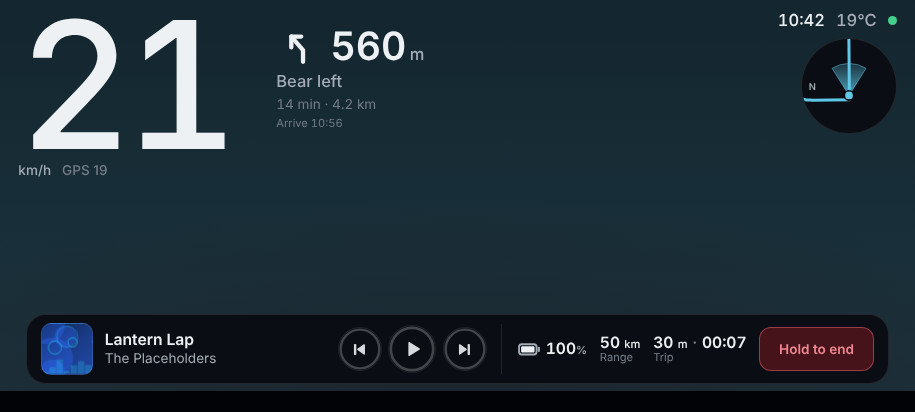
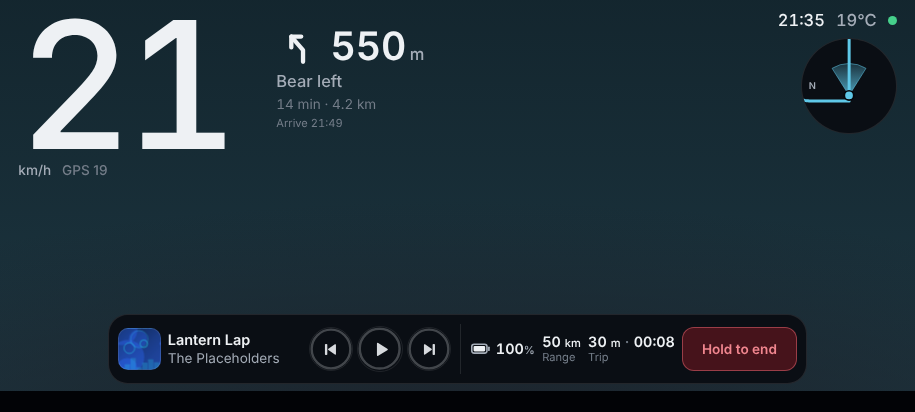
docs: document fullscreen, the centred dock and amber warnings, refresh screenshots
Adds Amendment 6 to the brief mirror, a reinstall note and system gesture limits
to PWA.md, the colour rules and dock layout to the design system, and a trip
summary screenshot.

diff --git a/docs/DESIGN_SYSTEM.md b/docs/DESIGN_SYSTEM.md
@@ -1,6 +1,6 @@
 # Design system
 
-Waylit should feel like a quiet cockpit at night: near black, flat translucent panels with hairline borders, and one soft cyan accent. The 3D scene fills the whole screen and the HUD floats on it. Everything else stays quiet so the 3D view leads.
+Waylit should feel like a quiet cockpit at night: near black, flat translucent panels with hairline borders, one soft cyan accent, and amber and red only when something needs attention. The 3D scene fills the whole screen and the HUD floats on it. Everything else stays quiet so the 3D view leads.
 
 The tokens live in [`packages/ui-tokens`](../packages/ui-tokens). `src/tokens.ts` is the source of truth and works on any platform. `src/tokens.css` exposes the same values as CSS custom properties prefixed `--wl-`, and a test fails if the two files drift apart. The web app maps the variables into Tailwind in `apps/web/src/app/globals.css`.
 
@@ -8,8 +8,8 @@ The tokens live in [`packages/ui-tokens`](../packages/ui-tokens). `src/tokens.ts
 
 1. **The world leads, the HUD supports.** The scene is the whole screen. The HUD is bare text and a few flat panels. If something competes with the road, make it smaller or quieter.
 2. **Glanceable first.** The vehicle speed is the biggest thing on the screen, set as a bare number with tight letter spacing. Distance to the next turn is next. Secondary text is smaller and in muted grey.
-3. **One accent.** Soft cyan (`cyan`, `#5fc8e8`) is the only accent: the route on the minimap, progress, active states and the heading. It is never used as decoration.
-4. **Colour has a job.** Amber is only for caution: offline, low battery and the safety notice. A lost scooter link is not amber, it is a quiet grey note with a small cyan icon. Red is only for End trip, as a dark red fill, a muted red outline and soft red text. Green is only the small online dot.
+3. **One accent.** Soft cyan (`cyan`, `#5fc8e8`) is the only non-warning accent: the route on the minimap, progress, active states and the heading. It is never used as decoration.
+4. **Colour has a job.** Amber and red are allowed for warnings and errors (Amendment 6). Amber (`caution`, a muted amber that suits the dark theme) is for warnings: the telemetry lost note, the GPS fallback label, offline, low battery and safety notices. Red is for errors and for End trip, as a dark red fill, a muted red outline and soft red text. Green is only the small online dot. Never use amber or red as decoration.
 5. **No glow, no heavy blur.** HUD panels are flat, about 85 percent opaque, with a hairline border and no backdrop blur, so they stay cheap on a mid-range phone. Glow tokens are kept for the 3D scene's route and heading marker, and for the keyboard focus ring.
 6. **Large targets.** Anything touchable is at least 44 by 44 pixels (`touch.min`).
 7. **Respect reduced motion.** Ambient animation stops under `prefers-reduced-motion`. Motion that answers a rider's action may stay but should be short, and feedback must never depend on it.
@@ -28,10 +28,10 @@ The tokens live in [`packages/ui-tokens`](../packages/ui-tokens). `src/tokens.ts
 | `text` | `--wl-color-text` | `text` | `#eef1f4` | Primary text and the speed number |
 | `textSecondary` | `--wl-color-text-secondary` | `text-secondary` | `#a4acb7` | Labels, street instruction |
 | `textMuted` | `--wl-color-text-muted` | `text-muted` | `#747d89` | Time and distance left, hints |
-| `caution` | `--wl-color-caution` | `caution` | `#e6b04f` | Offline, low battery, safety notices |
-| `danger` | `--wl-color-danger` | `danger` | `#f0868f` | End trip text only |
-| `dangerBorder` | `--wl-color-danger-border` | `danger-border` | `rgba(200, 84, 96, 0.65)` | End trip outline |
-| `dangerFill` | `--wl-color-danger-fill` | `danger-fill` | `rgba(96, 22, 30, 0.7)` | End trip fill |
+| `caution` | `--wl-color-caution` | `caution` | `#e6b04f` | The warning amber: telemetry lost note, GPS fallback label, offline, low battery, safety notices |
+| `danger` | `--wl-color-danger` | `danger` | `#f0868f` | Errors, and End trip text |
+| `dangerBorder` | `--wl-color-danger-border` | `danger-border` | `rgba(200, 84, 96, 0.65)` | Error and End trip outline |
+| `dangerFill` | `--wl-color-danger-fill` | `danger-fill` | `rgba(96, 22, 30, 0.7)` | Error and End trip fill |
 | `ok` | `--wl-color-ok` | `ok` | `#46d08b` | The online dot |
 | `glass` | `--wl-color-glass` | `glass` | `rgba(10, 13, 18, 0.85)` | Flat panel fill, about 85 percent opaque |
 | `glassNight` | `--wl-color-glass-night` | `glass-night` | `rgba(10, 13, 18, 0.78)` | Panel fill after dark, a little more see-through |
@@ -60,7 +60,7 @@ Waylit uses the platform's system UI font (`font.sans`). It is legible at small 
 | `speed` | `text-speed` | `min(43dvh, 21vw)` | Vehicle speed on the riding screen |
 | `hudTurn` | `text-hud-turn` | `clamp(1.5rem, 9.5dvh, 3.5rem)` | Distance to the next turn |
 | `hudLg` | `text-hud-lg` | `clamp(0.875rem, 4dvh, 1.3rem)` | Street instruction, clock, temperature |
-| `hudDock` | `text-hud-dock` | `clamp(0.8rem, min(3.8dvh, 2.1vw), 1.3rem)` | Values in the dock, which is the tightest row |
+| `hudDock` | `text-hud-dock` | `clamp(0.8rem, min(3.5dvh, 1.9vw), 1.2rem)` | Values in the dock, which is the tightest row |
 | `hudMd` | `text-hud-md` | `clamp(0.75rem, 3.3dvh, 1.05rem)` | Time and distance left, labels, speed unit |
 | `hudSm` | `text-hud-sm` | `clamp(0.6875rem, 2.7dvh, 0.875rem)` | Captions, arrival time, credits |
 
@@ -115,32 +115,33 @@ The riding screen is landscape first. Phones in landscape can be as short as 360
 
 ## Riding screen layout
 
-Built in `apps/web/src/app/ride/page.tsx` and `apps/web/src/hud/`. The scene fills the whole screen and the HUD floats on it. There are no solid bars. The HUD is a grid of three rows: the top area (which grows), the dock, and the credits strip. It was checked at 915 by 412 (Samsung Galaxy A35 in landscape, in CSS pixels), 740 by 360, 667 by 375, 800 by 360 and 1280 by 720, in the start, riding, telemetry lost and summary states.
+Built in `apps/web/src/app/ride/page.tsx` and `apps/web/src/hud/`. The scene fills the whole screen and the HUD floats on it. There are no solid bars. The HUD is a grid of three rows: the top area (which grows), the dock, and the credits strip. It was checked at 915 by 412 (Samsung Galaxy A35 in landscape, in CSS pixels), 915 by 422 (the A35's 2340 by 1080 pixels at its device pixel ratio, which is the fullscreen height), 740 by 360, 667 by 375, 800 by 360 and 1280 by 720, in the start, riding, telemetry lost and summary states.
 
 | Area | Content |
 |---|---|
 | Top left, no card | The vehicle speed as a bare, very large number (the biggest element, digits about 30 percent of the screen height). Under it, small: `km/h` and `GPS 17`, the GPS speed shown separately. Beside it: the next turn arrow, the distance to the turn in large type, the street instruction, then a smaller grey `9 min · 2.4 km` (time and distance left) and a small `Arrive 14:35` |
 | Top right | Local time and temperature (mock weather) as plain text, a small connectivity dot (green online, amber offline), and a round plain SVG minimap about 84 px across at 800 wide: route line, position dot and a heading cone. No tiles and no map data |
 | Centre | Clear for the 3D scene. A dark gradient until task 8. The start prompt appears low in the clear middle before a trip, and the dev controls (development and `?dev=1` only) sit below it. They are always one row of 44 px buttons, so nothing overlaps at any landscape size, and the Time button swaps that row for the time override page (Back, Live, Dawn, Noon, Sunset, Night, a time slider and a date field) |
-| Dock | One joined glass dock, 20 px corners, inset from the screen edges, with a hairline divider between two halves. Left: artwork tile, title and artist, previous, play or pause, next, and a thin progress line along the bottom of the half. Right: battery icon and percent, range, trip distance and time (`3.2 km · 12:40`), and End trip at the far right |
+| Dock | One joined glass dock, 20 px corners, sized to its content and centred at the bottom with margin on both sides (never wider than 80 percent of the screen, or 42rem on small phones where the content needs it), with a hairline divider between two halves. Left: artwork tile, title and artist, previous, play or pause, next, and a thin progress line along the bottom of the half. Right: battery icon and percent, range, trip distance and time (`3.2 km · 12:40`), and End trip at the far right |
 | Credits strip | The reserved credits row below the dock: a darker band that nothing overlaps, sized for real attributions later (Google, Cesium ion and OpenStreetMap contributors). Empty in production. A faint label shows only in development or with `?dev=1` |
 
 Rules for this screen:
 
+- **Fullscreen, with our own top strip.** The installed app runs fullscreen (see [PWA.md](PWA.md)), so the phone's status bar and navigation bar are hidden and the screen draws its own: time, temperature and the online dot top right, speed and turn top left. Everything keeps at least the safe area inset, with a small minimum margin for rounded corners, so nothing sits under the camera cutout.
 - **Nothing in the bottom corners outside the dock.** No floating vertical buttons, no distance scale and no zoom controls.
-- **Large targets.** Media buttons are round and at least 44 pixels across, and End trip is at least 44 pixels tall. End trip is the only red.
+- **Large targets.** Media buttons are round and at least 44 pixels across, and End trip is at least 44 pixels tall. End trip is the one red control, and red is otherwise only for errors.
 - **Speed guard.** Above 8 km/h the media controls and End trip need a hold (0.6 s, and 0.9 s for End trip). The guard switches off below 5 km/h.
 - **Hold feedback that does not need animation.** While the guard is on, each media button shows a ring track that says a hold is needed. While a button is held the ring fills over the hold time, the button takes a cyan edge and a stronger fill, and the artist line says "Keep holding". End trip says "Hold to end", grows a red fill while held, and says "Keep holding". With reduced motion the ring and fill skip the growth and show complete as soon as the hold starts, so the filled state and the caption are still there.
-- **Missing data shows dashes**, never zero. A quiet grey note with a small cyan icon under the speed says when GPS is standing in for the scooter, and the GPS speed turns cyan. Neither uses amber.
+- **Missing data shows dashes**, never zero. An amber note with a small icon under the speed says when GPS is standing in for the scooter, and the GPS speed label turns amber.
 - **Plain text, no cards.** The speed, turn, time and temperature have no panel behind them. Only the dock, the minimap and the dev controls are panels.
 - **Minimap.** Plain drawn route only. While riding it follows the rider with the heading up, shows a clear heading cone (a 34 unit wedge opening 32 degrees either side, a gradient fill from 80 to 20 percent cyan with an outline), and a small N on the rim. Before and after a trip it shows the whole route inside the circle, north up.
 - **Contrast.** The speed uses `text` (17.8:1 on `night-950`). The dock is more solid in daylight and fades smoothly with the sun. Sunlight readability on a real screen has not been tested yet, so the day fill is a first guess.
-- **Fluid type.** Sizes use `clamp` with `dvh` and `vw` (see Typography). The dock values also scale with width, because the dock is the tightest row. The vehicle half of the dock is sized to its content and the media half takes the rest, so at 667 by 375 the track title still fits whole and a long artist line ends in an ellipsis. Neither pushes the media buttons or End trip off the screen, and nothing else clips.
+- **Fluid type.** Sizes use `clamp` with `dvh` and `vw` (see Typography). The dock values also scale with width, because the dock is the tightest row. The dock is sized to its content. The track title block has a fixed fluid width (about 15 percent of the screen width, at least 7.75 rem), so the dock does not change width from track to track, and at 667 by 375 the longest mock title still fits whole and a long artist line ends in an ellipsis. Neither pushes the media buttons or End trip off the screen, and nothing else clips.
 - **Reduced motion.** See hold feedback above. The offline pulse stops. Nothing else on this screen animates.
 - **Copy.** Sentence case, no emoji, no em dashes. Speed in km/h, distances under 1 km in metres rounded to 10 m, longer ones in km with one decimal, 24 hour time.
 - **Variants.** `short:` is for screens up to 520 px tall and `tight:` is for up to 400 px tall. The riding screen no longer needs them because its sizes are fluid, and they remain for other screens.
 
-Screenshots of the screen, taken from a production build with headless Chrome, are in [`docs/images/`](images/): [riding at 915 by 412](images/ride-915x412-riding.png), [start at 915 by 412](images/ride-915x412-start.png), [telemetry lost at 915 by 412](images/ride-915x412-fallback.png) (taken with `?dev=1`, so the dev controls show) and [riding at 1280 by 720](images/ride-1280x720-riding.png). The same screen with the dev time override at [dawn](images/ride-915x412-dawn.png), [noon](images/ride-915x412-noon.png), [sunset](images/ride-915x412-sunset.png) and [night](images/ride-915x412-night.png), taken at 915 by 412 with `?dev=1&time=dawn` and so on, for Berlin on 25 November. Day shows the dock at its most solid and a bluer scene, sunset and dawn show the warm glow at the horizon and a mid fill, and night is the darkest with the most see-through dock.
+Screenshots of the screen, taken from a production build with headless Chrome, are in [`docs/images/`](images/): [riding at 915 by 412](images/ride-915x412-riding.png), [start at 915 by 412](images/ride-915x412-start.png), [telemetry lost at 915 by 412](images/ride-915x412-fallback.png) (taken with `?dev=1`, so the dev controls show) and [riding at 1280 by 720](images/ride-1280x720-riding.png) and [the trip summary at 915 by 412](images/ride-915x412-summary.png). The same screen with the dev time override at [dawn](images/ride-915x412-dawn.png), [noon](images/ride-915x412-noon.png), [sunset](images/ride-915x412-sunset.png) and [night](images/ride-915x412-night.png), taken at 915 by 412 with `?dev=1&time=dawn` and so on, for Berlin on 25 November. Day shows the dock at its most solid and a bluer scene, sunset and dawn show the warm glow at the horizon and a mid fill, and night is the darkest with the most see-through dock.
 
 ## Using the tokens
 

diff --git a/docs/PWA.md b/docs/PWA.md
@@ -1,15 +1,17 @@
 # PWA shell
 
-This page describes the installable app shell as built: the manifest, the service worker, install, landscape handling, screen wake lock and the first run safety notice. It also lists the limits of a progressive web app, so later phases plan around them.
+This page describes the installable app shell as built: the manifest, the service worker, install, landscape and fullscreen handling, screen wake lock and the first run safety notice. It also lists the limits of a progressive web app, so later phases plan around them.
 
-Status: the shell is covered by unit tests and was checked in headless desktop Chrome (see [What has been verified](#what-has-been-verified)). It has not been tested on a real Android phone yet. That test needs a device and a deployed HTTPS URL.
+Status: the shell is covered by unit tests and was checked in headless desktop Chrome (see [What has been verified](#what-has-been-verified)). The owner installed the deployed app on a Samsung Galaxy A35 and reported that the HUD works well. The fullscreen display mode added after that test has not been checked on the phone yet.
 
 ## Install on Android Chrome
 
 1. Deploy a copy over HTTPS, see [DEPLOYING.md](DEPLOYING.md). A service worker and install need HTTPS, or `localhost`.
 2. Open the URL in Chrome on the phone and wait a few seconds on the start screen.
 3. Tap **Install app** on the start screen. If the button does not appear, open the Chrome menu and choose **Install app** or **Add to Home screen**.
-4. Launch Waylit from the home screen icon. It should open full screen with no address bar, in landscape, with no website header or sidebar.
+4. Launch Waylit from the home screen icon. It should open fullscreen with no address bar, no Android status bar or navigation bar, in landscape, with no website header or sidebar.
+
+**Reinstall after the manifest changed.** Android Chrome reads the manifest when the app is installed and only updates some of it afterwards. An app installed before `display` changed from `standalone` to `fullscreen` may keep showing the system status bar and navigation bar. Uninstall it from the home screen and install it again to pick up the fullscreen display mode. Until then the riding screen still asks for fullscreen from the **Start trip** tap, which hides the bars in most cases.
 
 Samsung Internet and other Chromium browsers on Android also install it. Safari on iOS has no install event, so the start screen shows a hint to use Share, then Add to Home Screen. iOS support is not a goal of milestone 1.
 
@@ -35,7 +37,9 @@ To test offline behaviour, install the app, open the start screen and the ride s
 
 ### What to check on the device
 
-- The install button appears, and the installed app launches full screen in landscape.
+- The install button appears, and the installed app launches fullscreen in landscape, with the status bar and navigation bar hidden.
+- After **Start trip** the system bars stay hidden, and after **End trip** the app is no worse off than before. A swipe from the screen edge shows the bars for a moment and they hide again (see the limits below).
+- Nothing sits under the camera cutout or the rounded corners: the speed, minimap, time and the dock all have space around them.
 - The ride screen shows no address bar, header, sidebar or install button.
 - The screen stays on while a trip is running (after **Start trip**), and turns off normally after **End trip** or after leaving the ride screen.
 - Rotating to portrait on the ride screen shows the "Turn your phone sideways" prompt, and rotating back hides it.
@@ -50,7 +54,8 @@ Generated by `apps/web/src/app/manifest.ts` and served at `/manifest.webmanifest
 | Field | Value |
 |---|---|
 | `name`, `short_name` | Waylit |
-| `display` | `standalone` |
+| `display` | `fullscreen` |
+| `display_override` | `fullscreen`, then `standalone` as the fallback |
 | `orientation` | `landscape` |
 | `start_url`, `scope` | `/?source=pwa`, `/` |
 | `theme_color`, `background_color` | `night950` from the design tokens |
@@ -99,10 +104,12 @@ Build assets have content hashes in their names, so a saved copy is always the r
 
 ## Landscape and full screen
 
-- The manifest asks for landscape. The viewport uses `viewport-fit=cover`, so the app can draw under notches and system bars.
-- Safe area insets are exposed as `--wl-safe-top`, `--wl-safe-right`, `--wl-safe-bottom` and `--wl-safe-left`. Ordinary pages are padded by them. The ride screen is fixed and uses them for its own spacing.
+- The manifest asks for landscape and `fullscreen`, with `display_override` set to `fullscreen` then `standalone`, so a browser that cannot do fullscreen installs the app as standalone instead. Fullscreen hides the phone's status bar (clock, notification icons, battery) and navigation bar while the app is open, so the riding screen draws its own top strip: the time, temperature and online dot are top right, and the speed and turn are top left.
+- The viewport uses `viewport-fit=cover`, so the app can draw under the camera cutout, rounded corners and system bars.
+- Safe area insets are exposed as `--wl-safe-top`, `--wl-safe-right`, `--wl-safe-bottom` and `--wl-safe-left`. Ordinary pages are padded by them. The ride screen is fixed and uses them for its own spacing: the top area, the dock row, the credits strip and the trip summary all keep at least the inset (and a small minimum margin for rounded corners) from every edge, so nothing sits under the camera cutout.
 - On the ride screen, a phone narrower than 768 pixels held upright shows a "Turn your phone sideways" prompt (`RotateOverlay`, CSS only).
 - From the start screen, the **Open ride screen preview** click also tries `screen.orientation.lock("landscape")`. It only runs in the installed app, only after that tap, and fails silently if the browser refuses.
+- **Fullscreen API on the riding screen.** `apps/web/src/pwa/fullscreen.ts` requests fullscreen for the whole page from the **Start trip** tap (a user gesture), but only when the page is not already fullscreen and the installed app is not already in `display-mode: fullscreen`. It is feature detected and fails silently, so a refusal never breaks the ride. When the trip ends, or the rider leaves the screen, it exits fullscreen if the API entered it. This is what hides the system bars in a normal browser tab, and in an installed app that predates the manifest change. `isStandalone()` also counts `display-mode: fullscreen`, so the install button stays hidden in the fullscreen app.
 
 ## Screen wake lock
 
@@ -121,12 +128,13 @@ Plan later phases around these.
 - **Wake lock is a request.** The browser can refuse it, for example in battery saver, and releases it whenever the page is hidden.
 - **Storage is not guaranteed.** Browsers can evict site data under storage pressure, and caches have size limits. `navigator.storage.persist()` asks the browser to keep data, and installed apps are treated more generously, but it is still a request. Keep anything valuable recoverable.
 - **Orientation lock** only works in some contexts, so the manifest and the rotate prompt remain the main handling.
+- **System gestures still work.** In fullscreen, swiping from the edge of the screen (or the Android back and home gestures) can reveal the system bars temporarily. They hide again after a moment. The app cannot prevent this and should not try. Fullscreen can also be refused by the browser, so the manifest and the Fullscreen API are both used.
 - **Install behaviour differs by browser.** Chromium fires an install event, Safari and Firefox do not.
 - **Hardware access** such as sensors, USB and NFC varies by browser and may need permissions.
 
 ## What has been verified
 
-Automated, in `pnpm test`: cache classification and eviction rules, the real `sw.js` run against fake caches (precache, activate cleanup, network first pages, offline fallback, stale while revalidate, API and cross origin requests ignored), update flow, wake lock behaviour with mocked browser APIs, install event handling, orientation lock, safety notice storage including blocked storage, manifest fields and icon files, and the offline page tokens.
+Automated, in `pnpm test`: the fullscreen request and exit logic with fake browser objects (skipped when already fullscreen, silent on refusal), cache classification and eviction rules, the real `sw.js` run against fake caches (precache, activate cleanup, network first pages, offline fallback, stale while revalidate, API and cross origin requests ignored), update flow, wake lock behaviour with mocked browser APIs, install event handling, orientation lock, safety notice storage including blocked storage, manifest fields and icon files, and the offline page tokens.
 
 Manual, in headless desktop Chrome against a production build, on localhost:
 
@@ -137,4 +145,4 @@ Manual, in headless desktop Chrome against a production build, on localhost:
 - The wake lock requested on the ride screen reports active while a trip runs, and inactive after End trip.
 - The safety notice shows on first run, and its acknowledgement is stored.
 
-Not verified: installing on a real Android phone (Samsung Galaxy A35 is the target), the standalone launch there, the real wake lock behaviour with the screen timeout, the `beforeinstallprompt` flow on the phone, a Lighthouse audit, and update prompts across a real second deploy.
+Not verified: the fullscreen launch on the Samsung Galaxy A35 and whether the system bars stay hidden after a reinstall, the real wake lock behaviour with the screen timeout, the `beforeinstallprompt` flow on the phone, a Lighthouse audit, and update prompts across a real second deploy.

diff --git a/docs/ARCHITECTURE.md b/docs/ARCHITECTURE.md
@@ -28,12 +28,12 @@ apps/web/
     icons/                   Generated app icons
   scripts/generate-icons.mjs Dependency free icon generator
   src/app/manifest.ts        Web app manifest (from design tokens)
-  src/app/ride/              The riding screen: full screen, no chrome, wake lock while a trip runs
-  src/pwa/                   Plain TypeScript logic: wake lock, install, update flow, safety notice, orientation
+  src/app/ride/              The riding screen: fullscreen, no chrome, wake lock while a trip runs
+  src/pwa/                   Plain TypeScript logic: wake lock, fullscreen, install, update flow, safety notice, orientation
   src/components/            Thin React wrappers: install button, safety notice, rotate prompt, worker registrar
 ```
 
-Logic sits in `src/pwa` as framework free modules that take their browser objects as arguments, so Vitest can test them with fakes. The components only wire those modules to React. The ride screen calls `useWakeLock` while a trip is running. Nothing here moves into `packages/*`, because it all needs the browser.
+Logic sits in `src/pwa` as framework free modules that take their browser objects as arguments, so Vitest can test them with fakes. The components only wire those modules to React. The ride screen calls `useWakeLock` while a trip is running, asks for fullscreen from the Start trip tap (`enterFullscreen`) and leaves it when the trip ends (`exitFullscreen`). Nothing here moves into `packages/*`, because it all needs the browser.
 
 ## Riding screen
 
@@ -53,7 +53,7 @@ apps/web/src/
                         next turn arrow, distance, street instruction, time and distance left, arrival
     StatusCluster       top right: local time, mock temperature, connectivity dot (plain text, no panel)
     Minimap             top right: round plain SVG route line, position dot, heading cone, N. No tiles
-    Dock                one joined glass dock with a hairline divider between its two halves
+    Dock                one joined glass dock, content sized and centred, with a hairline divider between its two halves
     MediaPanel          dock, left half: artwork, title, artist, previous, play or pause, next, progress line
     VehiclePanel        dock, right half: battery, range, trip distance and time, End trip
     SceneSlot           the gradient scene placeholder and the reserved credits strip
@@ -68,11 +68,11 @@ apps/web/src/
 
 How it fits together:
 
-- **Screen grid.** The scene is `absolute inset-0` and the HUD sits on it in one CSS grid with three rows: the top area (speed, turn, status and minimap, and the free centre), the dock, and the credits strip. The credits strip is its own row, a darker band, so no panel can overlap it. The dock is inset from the screen edges and is the only thing along the bottom. In the centre column only the start prompt, the trip summary and the dev controls are ever drawn.
+- **Screen grid.** The scene is `absolute inset-0` and the HUD sits on it in one CSS grid with three rows: the top area (speed, turn, status and minimap, and the free centre), the dock, and the credits strip. The credits strip is its own row, a darker band, so no panel can overlap it. The dock row is a flex container that centres the dock, which is sized to its content and capped at 80 percent of the screen width (or 42rem on small phones, where its content needs the room), so it floats with a margin on both sides. It is the only thing along the bottom. The track title block has a fixed fluid width, so the dock does not change width from track to track. The credits strip stays full width. In the centre column only the start prompt, the trip summary and the dev controls are ever drawn.
 - **Day and night.** The page works out a `DaylightState` (`hud/daylight.ts`) from the sun at the rider's position and the current time: the sun's elevation, azimuth and phase from `getSolarState` in `@waylit/core`, a smooth `factor` from 0 (dark) to 1 (day) from `daylightFactor` (a smoothstep from -6 to +6 degrees of sun elevation), and a `warmth` value that peaks at sunrise and sunset. The position is the simulated GPS fix while riding and the start of the demo route otherwise (real GPS later). The time is the device clock, to the minute, or the dev override. The page puts `--wl-daylight` and `--wl-warmth` on the screen root, plus `data-daylight` (true when the factor is one half or more) and `data-sun-phase`. CSS blends the dock fill between `glassNight` and `glassDay` with `color-mix`, so it fades through dawn and dusk instead of switching at a fixed hour, and tints the placeholder scene. The old fixed 07:00 to 19:00 rule is gone. Before the page has loaded there is no time and the state is night, so the server render and the first client render match.
 - **Daylight for the 3D scene.** `DaylightProvider` makes the same `DaylightState` available to everything on the screen, and `useDaylight()` reads it. Task 8 (3D lighting) should read the sun's `elevationDegrees`, `azimuthDegrees` and `phase`, the `factor` and the `warmth` from it, and must not work out its own time of day. `overridden` says when a dev time override is in force.
 - **Data flow.** `RideSession.tick()` advances the GPS simulator, ticks the mock vehicle, projects the smoothed GPS fix onto the route (`projectOntoRoute`) to get the distance along it, and turns that into the next instruction, distance to it, remaining distance and time and arrival (`computeProgress`). Speed comes from `selectSpeed`. Trip distance and duration come from `TripTracker`. The HUD only reads the snapshot.
-- **GPS fallback.** Scooter speed is used while telemetry is fresh. When it is missing or older than two seconds, the headline speed uses GPS and says so (a cyan `GPS 17` and a quiet note under the speed), battery and range show dashes, and trip distance and duration carry on from GPS distance (`GpsDistanceIntegrator`) and the ride clock. `TripTracker` adds up changes instead of swapping totals, so the figure never jumps and never goes backwards. A frozen sample counts as fresh for two seconds and adds nothing, so the tracker remembers the GPS distance and ride time at the last new vehicle sample and backfills everything GPS saw since then the moment telemetry goes stale (and again on the first sample after a dropout). Nothing is lost in the stale window. The reading also records whether GPS was used at any point, so the trip summary can say GPS, a mix of the scooter and GPS, or nothing. The first 50 m counted before the scooter's first sample are the normal start of a trip (the link takes a moment) and do not count as GPS use.
+- **GPS fallback.** Scooter speed is used while telemetry is fresh. When it is missing or older than two seconds, the headline speed uses GPS and says so (an amber `GPS 17` and an amber note with a small icon under the speed), battery and range show dashes, and trip distance and duration carry on from GPS distance (`GpsDistanceIntegrator`) and the ride clock. `TripTracker` adds up changes instead of swapping totals, so the figure never jumps and never goes backwards. A frozen sample counts as fresh for two seconds and adds nothing, so the tracker remembers the GPS distance and ride time at the last new vehicle sample and backfills everything GPS saw since then the moment telemetry goes stale (and again on the first sample after a dropout). Nothing is lost in the stale window. The reading also records whether GPS was used at any point, so the trip summary can say GPS, a mix of the scooter and GPS, or nothing. The first 50 m counted before the scooter's first sample are the normal start of a trip (the link takes a moment) and do not count as GPS use.
 - **Minimap.** A round map drawn from the route's own coordinates only. While riding it follows the rider with the heading up and shows a heading cone. Before and after a trip it shows the whole route inside the circle, north up. It uses no map tiles and no map data, so it needs no map credit and can sit next to Google tiles later (see Amendment 3 in the brief).
 - **Speed guard.** Above 8 km/h (off again below 5) the media controls and End trip need a deliberate press: a touch or mouse press must be held for 0.6 s (0.9 s for End trip). Each guarded control shows its feedback without relying on animation: a ring (media buttons) or a fill (End trip) that grows while held, plus a static held state and a caption ("Keep holding"). With reduced motion the ring and fill show complete at once. Keyboard and assistive technology activation goes straight through.
 - **End trip.** Takes the summary (distance, duration, average speed), stops the simulator, releases the wake lock (the hook is only enabled while riding) and stops the media: `useMockMedia(false)` pauses and rewinds the player, silences the tone engine and clears the Media Session metadata and handlers. **Start new trip** builds a fresh session and returns to the start state.

diff --git a/CHANGELOG.md b/CHANGELOG.md
@@ -21,6 +21,8 @@ All notable changes to this project are recorded here. The format follows [Keep 
 - Route progress in `@waylit/core` (`projectOntoRoute`, `computeProgress`), GPS distance integration (`GpsDistanceIntegrator`), HUD number formatting, and `MediaPlayer.stop()`. `TripTracker` and `isTelemetryStale` in `@waylit/vehicle`: trip distance and duration fall back to GPS when scooter telemetry is missing or stale, without jumps.
 - Simulation dev controls (playback speed, lose scooter data) shown in development builds, and in production only with `?dev=1`.
 - Fluid riding screen type sizes (`speed`, `hudTurn`, `hudLg`, `hudDock`, `hudMd`, `hudSm`), a `tight:` variant for very short landscape screens, and new original screenshots of the HUD in `docs/images`.
+- `enterFullscreen` and `exitFullscreen` in `apps/web/src/pwa/fullscreen.ts`: feature detected, silent on refusal, and skipped when the app is already fullscreen through its manifest.
+- A trip summary screenshot in `docs/images`, and refreshed screenshots of every other state.
 - Hold to press feedback that does not rely on animation: a ring track and a filled held state with a "Keep holding" caption on every guarded control, which also work with reduced motion.
 
 - Solar module in `@waylit/core` (NOAA solar position algorithm, original code, no dependencies): `getSolarState` for sun elevation, azimuth and phase (day, golden hour, civil and nautical twilight, night), `getSunTimes` for solar noon, sunrise, sunset and civil and nautical dawn and dusk with polar day and polar night handled, and `daylightFactor`. Independent of the machine time zone. Tested against reference values for five places, both solstices, the equator and the polar cases.
@@ -28,6 +30,11 @@ All notable changes to this project are recorded here. The format follows [Keep 
 - `useDaylight()` and `DaylightProvider` expose the sun, phase, a smooth daylight factor and a warmth value for the 3D lighting task. New screenshots at dawn, noon, sunset and night in `docs/images`.
 
 ### Changed
+
+- HUD feedback round after the first Galaxy A35 test (Amendment 6). The manifest now asks for `display: "fullscreen"` with `display_override` of `fullscreen` then `standalone`, and the riding screen requests the Fullscreen API from the Start trip tap and leaves it when the trip ends, so the phone's status bar and navigation bar are hidden while riding and the app draws its own top strip. An app installed before this change may need to be reinstalled. Safe area insets are applied to the top area, the dock row, the credits strip and the trip summary. Documented in `docs/PWA.md`.
+- The bottom dock is now content sized and centred with a margin on both sides instead of stretching across the screen: at most 80 percent of the screen width (or 42rem on small phones), still one joined dock with media left and vehicle stats and End trip right, with 44 px targets and the same hold to press behaviour. The track title block has a fixed fluid width so the dock does not change width from track to track, and the dock value size (`hudDock`) is a little smaller. The credits strip below it stays full width. Checked at 915 by 412, 915 by 422, 740 by 360, 667 by 375, 800 by 360 and 1280 by 720.
+- Colour: amber and red are allowed for warnings and errors, and cyan stays the only other accent. The "No scooter data" note (with its small icon) and the GPS fallback label are amber again, using the existing `caution` token, which is documented as the warning amber. Red stays for End trip and errors.
+- `isStandalone()` and the install button also treat `display-mode: fullscreen` as an installed app.
 
 - Daylight is now computed from the sun at the rider's position and the time instead of the fixed 07:00 to 19:00 rule. The dock fill and the placeholder scene fade smoothly through sunrise and sunset.
 - Design tokens: near black surfaces, soft cyan (`#5fc8e8`) as the only accent, muted greys, a dark red set used only by End trip, and flat translucent panels about 85 percent opaque with night and daylight fills. The second blue (`volt`), the glass sheen, the blue glows, `glassStrong` and `displaySm` are removed, and the minimum touch target is 44 px. The home page and offline page follow the new palette. The app icon keeps its own brand colours.
@@ -42,7 +49,6 @@ All notable changes to this project are recorded here. The format follows [Keep 
 - The dev controls are now always one row tall (the Time button swaps the simulation row for the time page, and going back keeps the override), so with `?dev=1` the Start trip button, the arrival line and the dock no longer overlap at 915 by 412, 740 by 360, 667 by 375, 800 by 360 or 1280 by 720.
 - The dock gives the media half more room at small widths (a smaller artwork tile, tighter gaps and padding, and the same inset as the HUD above it), so a title such as "Low Battery Waltz" shows in full at 667 by 375 and a longer one ends in a clean ellipsis. Controls stay at least 44 px.
 - A scooter whose first sample arrives after GPS has already moved a few metres is no longer reported as a "mixed" trip. The first 50 m counted before the scooter's first sample are still added to the trip but do not count as GPS use; a scooter that never reports still reads as GPS, and any dropout afterwards still counts.
-- The "No scooter data" note and the GPS speed label are no longer amber. The note is quiet grey with a small cyan icon and the GPS label is cyan, so cyan stays the only accent. Amber is kept for offline, low battery and the safety notice.
 - The dock no longer squeezes the track title at 667 by 375: the vehicle half is sized to its content, the title fits and a long artist line ends in an ellipsis with all controls fully visible.
 - The dev buttons are 44 px instead of 32 px.
 - Trip distance and time no longer lose the stale window when scooter telemetry drops out. `TripTracker` remembers where GPS and the ride clock were at the last new vehicle sample and backfills from GPS when telemetry goes stale or returns.

diff --git a/docs/AGENT_BRIEF.md b/docs/AGENT_BRIEF.md
@@ -1,6 +1,6 @@
 # Waylit project brief (public mirror)
 
-**Status:** Approved on 2026-11-22. Amendment 1 (public repository and open source practice), Amendment 2 (model policy) and Amendment 3 (mapping provider decision) applied the same day. Amendment 4 (workflow) and Amendment 5 (HUD dock and daylight) followed on 2026-11-25.
+**Status:** Approved on 2026-11-22. Amendment 1 (public repository and open source practice), Amendment 2 (model policy) and Amendment 3 (mapping provider decision) applied the same day. Amendment 4 (workflow), Amendment 5 (HUD dock and daylight) and Amendment 6 (HUD feedback) followed on 2026-11-25.
 
 This is the public, sanitised copy of the project brief. It tells AI coding agents and contributors what Waylit is, what is in scope and how to work. The maintainer keeps private planning notes elsewhere, so this file is the version everyone can see. To propose a change to the brief, open an issue.
 
@@ -111,3 +111,5 @@ The 3D riding view is the defining feature and the biggest technical risk, so it
 
 - The media player and the vehicle dashboard form one joined glass dock along the bottom of the riding screen, above a reserved credits strip that nothing covers. Success criterion 2 is worded to match.
 - Day and night are computed from the rider's location and the date using the sun's position, not fixed hours. Scene lighting and the HUD use the same daylight state, and a development time override can jump to dawn, noon, sunset or night to demonstrate it (supports success criterion 5).
+
+**Amendment 6, 2026-11-25. HUD feedback.** Amber and red may be used for warnings and errors, with cyan staying the only other accent. The riding screen hides the phone's system bars by running fullscreen, so the app draws its own top strip. The bottom dock is content sized and centred, not full width.

diff --git a/docs/VISION.md b/docs/VISION.md
@@ -15,7 +15,7 @@ The 3D environment is the primary visual element. Interface elements complement 
 - **Lighting.** Scene lighting follows the local time of day: warm light and long shadows at sunset, natural daylight by day, street lighting and subtle vehicle illumination at night.
 - **Top left.** A very large current speed, next instruction, distance to the next turn, estimated arrival, remaining distance and remaining duration.
 - **Top right.** Time, weather, connectivity and a small 2D minimap showing the upcoming route and heading.
-- **Bottom dock.** One joined glass dock along the bottom. On the left, a compact media player with artwork, artist, track, previous, play or pause, next and progress. On the right, a vehicle dashboard with battery, estimated range, trip distance, trip duration and an End Trip button. Below it, a reserved credits strip that nothing covers.
+- **Bottom dock.** One joined glass dock along the bottom, sized to its content and centred rather than stretched across the screen. On the left, a compact media player with artwork, artist, track, previous, play or pause, next and progress. On the right, a vehicle dashboard with battery, estimated range, trip distance, trip duration and an End Trip button. Below it, a reserved credits strip that nothing covers.
 
 The look is dark and premium: flat translucent dark panels, one soft cyan accent, restrained holographic effects, minimal readable typography and smooth animation. Where the underlying 3D geometry is imperfect, subtle lighting and stylisation keep the scene cohesive. Performance always takes priority over visual complexity.
 
